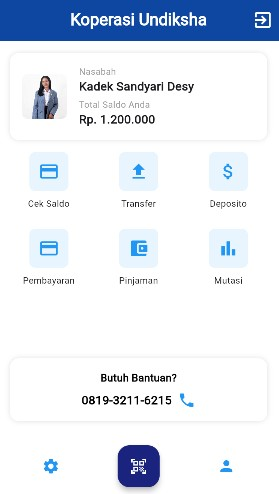
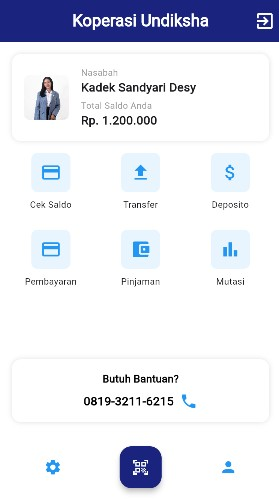
Update HomePage: Ubah warna header sesuai login page

diff --git a/lib/home_page.dart b/lib/home_page.dart
@@ -6,7 +6,7 @@ class HomePage extends StatelessWidget {
     return Scaffold(
       backgroundColor: Colors.white,
       appBar: AppBar(
-        backgroundColor: Colors.blue[900],
+        backgroundColor: Color(0xFF1A237E), // Warna header disamakan dengan login page
         title: Text(
           "Koperasi Undiksha",
           style: TextStyle(fontWeight: FontWeight.bold, color: Colors.white),
